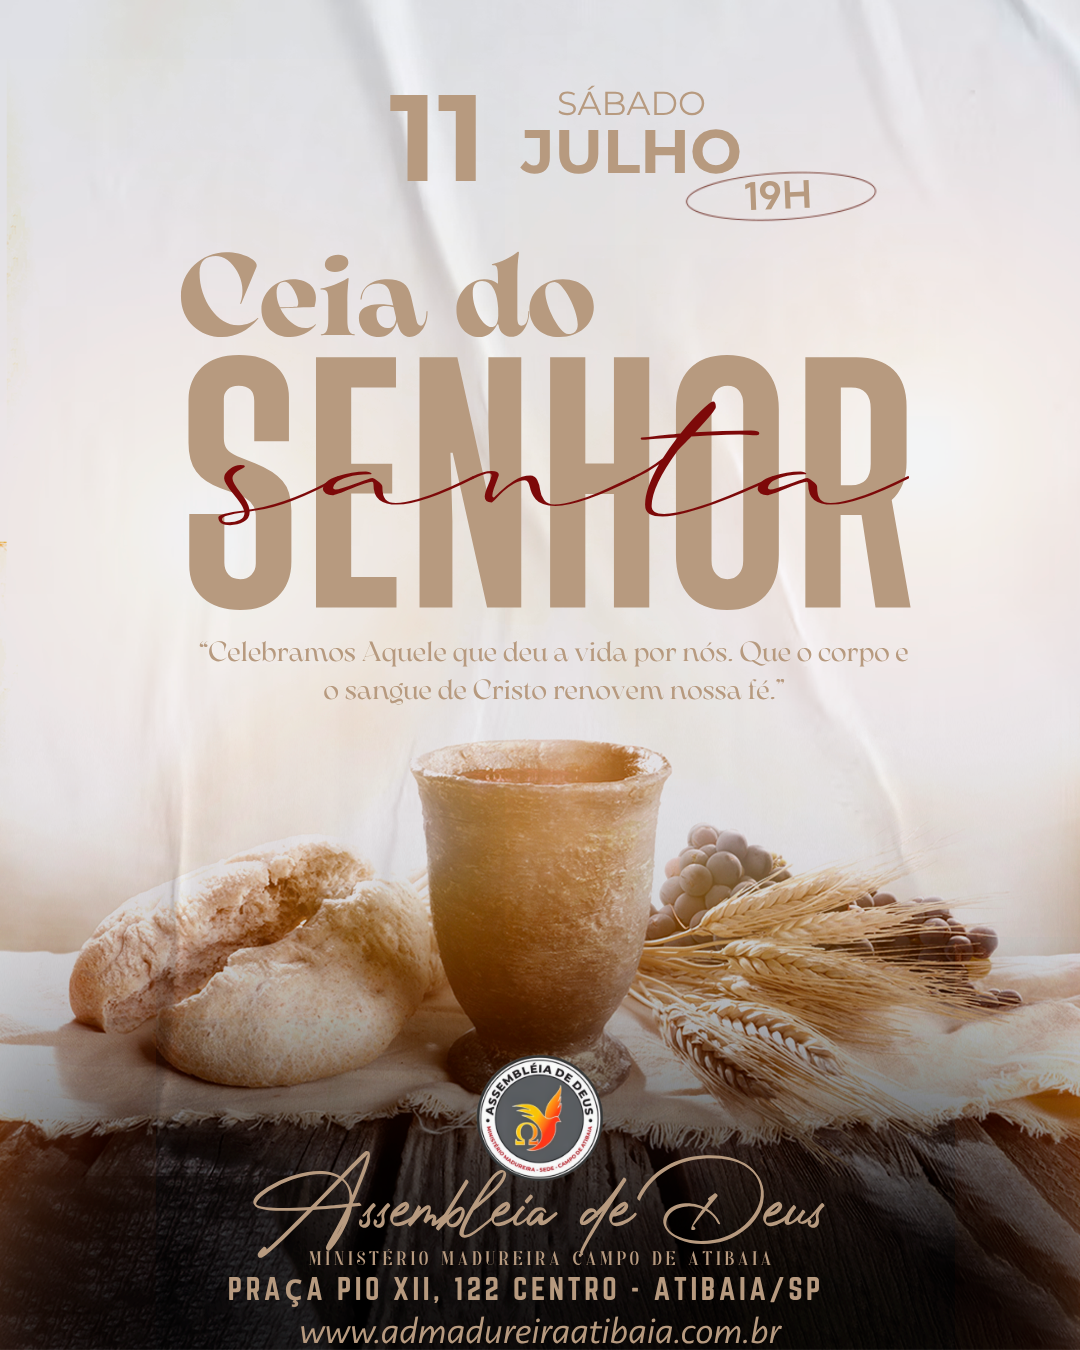
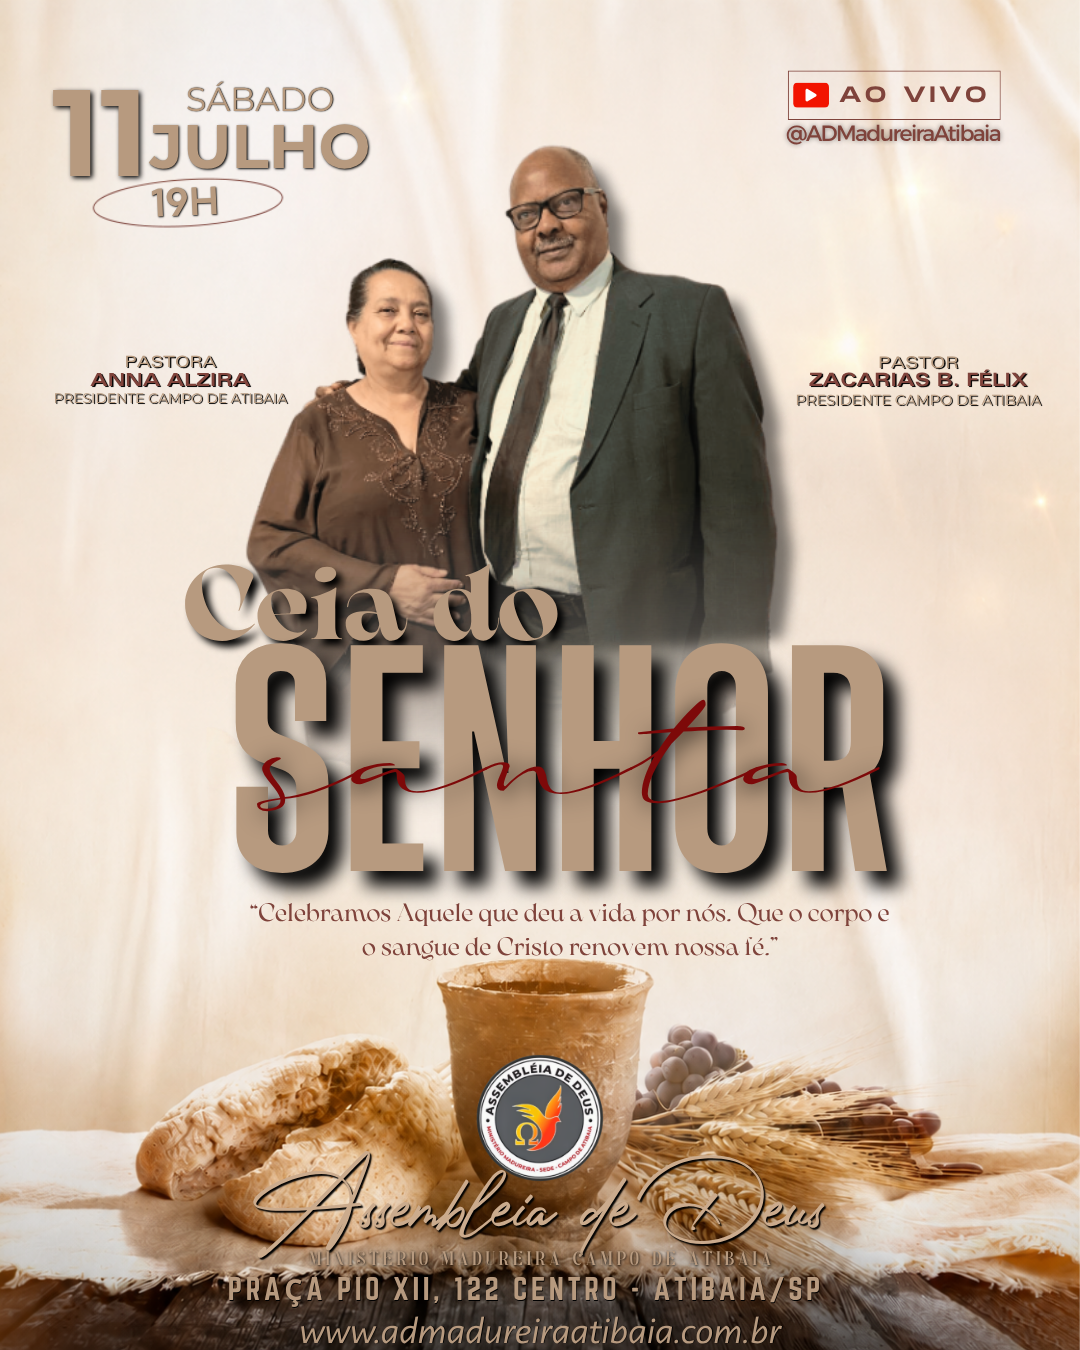
feat(eventos): ativa artes da semana e página da Vigília 29/08 (#102)
Atualiza as artes semanais de public/programacao/semanas/2026-07-06 e
cria a página dedicada da Vigília 29/08/2026 com preletor, cantores
convidados, data/horário/local, usando o banner oficial já entregue.

diff --git a/src/app/eventos/vigilia-29-08-2026/page.tsx b/src/app/eventos/vigilia-29-08-2026/page.tsx
@@ -1,0 +1,239 @@
+import type { Metadata } from "next";
+import Image from "next/image";
+import Link from "next/link";
+import VigiliaCountdown from "./VigiliaCountdown";
+import { VIGILIA_29_08_2026 as vigilia } from "@/data/vigilia-29-08-2026";
+import { SEDE_POSTAL_ADDRESS } from "@/data/site";
+import { buildPageMetadata, resolveSiteUrl, SITE_NAME } from "@/lib/site";
+
+export const metadata: Metadata = buildPageMetadata({
+  title: vigilia.tituloSeo,
+  description: vigilia.descricaoSeo,
+  path: vigilia.path,
+  image: vigilia.hero,
+  keywords: [...vigilia.keywords],
+});
+
+function InfoItem({ label, value }: { label: string; value: string }) {
+  return (
+    <div className="border-t border-white/10 pt-4">
+      <p className="text-[0.68rem] font-bold tracking-[0.22em] text-[#ffa726] uppercase">
+        {label}
+      </p>
+      <p className="mt-1 text-sm leading-relaxed text-white/82">{value}</p>
+    </div>
+  );
+}
+
+export default function Vigilia29082026Page() {
+  const canonicalUrl = resolveSiteUrl(vigilia.path);
+  const breadcrumbSchema = {
+    "@context": "https://schema.org",
+    "@type": "BreadcrumbList",
+    "@id": `${canonicalUrl}#breadcrumb`,
+    itemListElement: [
+      { "@type": "ListItem", position: 1, name: "Início", item: resolveSiteUrl("/") },
+      { "@type": "ListItem", position: 2, name: "Eventos", item: resolveSiteUrl("/eventos") },
+      { "@type": "ListItem", position: 3, name: vigilia.titulo, item: canonicalUrl },
+    ],
+  };
+  const eventSchema = {
+    "@context": "https://schema.org",
+    "@type": "Event",
+    "@id": `${canonicalUrl}#event`,
+    name: `${vigilia.titulo} — ${vigilia.data}`,
+    description: vigilia.descricaoSeo,
+    url: canonicalUrl,
+    image: [resolveSiteUrl(vigilia.hero)],
+    startDate: "2026-08-29T22:00:00-03:00",
+    inLanguage: "pt-BR",
+    eventStatus: "https://schema.org/EventScheduled",
+    eventAttendanceMode: "https://schema.org/OfflineEventAttendanceMode",
+    location: {
+      "@type": "Place",
+      name: vigilia.local,
+      address: SEDE_POSTAL_ADDRESS,
+    },
+    organizer: {
+      "@type": "Organization",
+      name: SITE_NAME,
+      url: resolveSiteUrl("/"),
+    },
+    performer: [
+      { "@type": "Person", name: vigilia.preletor },
+      ...vigilia.cantores.map((cantor) => ({
+        "@type": "Person",
+        name: cantor.nome,
+      })),
+    ],
+  };
+
+  return (
+    <main className="min-h-screen bg-[#f5f5f5]">
+      <script
+        type="application/ld+json"
+        dangerouslySetInnerHTML={{ __html: JSON.stringify(breadcrumbSchema) }}
+      />
+      <script
+        type="application/ld+json"
+        dangerouslySetInnerHTML={{ __html: JSON.stringify(eventSchema) }}
+      />
+
+      <div className="relative aspect-square w-full overflow-hidden bg-[#111] sm:aspect-[21/9] md:aspect-[21/7]">
+        <Image
+          src={vigilia.hero}
+          alt="Vigília 29 de agosto — AD Madureira Atibaia"
+          fill
+          priority
+          fetchPriority="high"
+          sizes="100vw"
+          className="object-cover object-top"
+        />
+        <div className="absolute inset-0 bg-gradient-to-t from-black/70 via-black/10 to-transparent" />
+      </div>
+
+      <section className="py-8 md:py-14">
+        <div className="ui-page-container ui-page-container--narrow">
+          <nav
+            aria-label="Breadcrumb"
+            className="mb-6 flex flex-wrap items-center gap-2 text-sm text-[#8a8a8a]"
+          >
+            <Link href="/" className="transition-colors hover:text-[#212121]">
+              Início
+            </Link>
+            <span>›</span>
+            <Link href="/eventos" className="transition-colors hover:text-[#212121]">
+              Eventos
+            </Link>
+            <span>›</span>
+            <span className="text-[#212121]">{vigilia.titulo}</span>
+          </nav>
+
+          <div className="mb-4">
+            <VigiliaCountdown targetIso="2026-08-29T22:00:00-03:00" />
+          </div>
+
+          <p className="mb-2 text-xs font-bold tracking-[0.28em] text-[#ffa726] uppercase">
+            {vigilia.diaSemana}, {vigilia.data} · {vigilia.horario}
+          </p>
+          <h1 className="font-acme text-3xl leading-tight tracking-wide text-[#212121] md:text-5xl">
+            {vigilia.titulo}
+          </h1>
+          <p className="mt-3 max-w-2xl text-lg font-semibold leading-relaxed text-[#8b5b18] md:text-2xl">
+            {vigilia.subtitulo}
+          </p>
+          <p className="mt-5 max-w-2xl text-base leading-relaxed text-[#555]">
+            {vigilia.descricaoTopo}
+          </p>
+
+          <div className="mt-8 flex flex-col gap-3 sm:flex-row">
+            <Link href="/contato" className="ui-btn-primary">
+              Como chegar
+            </Link>
+            <Link href="/programacao" className="ui-btn-secondary">
+              Ver programação completa
+            </Link>
+          </div>
+        </div>
+      </section>
+
+      <section className="bg-[#160e08] text-white">
+        <div className="ui-page-container py-10 md:py-14">
+          <div className="grid gap-4 sm:grid-cols-3">
+            <InfoItem label="Data" value={`${vigilia.diaSemana}, ${vigilia.data}`} />
+            <InfoItem label="Horário" value={vigilia.horario} />
+            <InfoItem label="Local" value={vigilia.endereco} />
+          </div>
+        </div>
+      </section>
+
+      <section className="ui-section">
+        <div className="ui-page-container">
+          <p className="ui-section-eyebrow ui-section-eyebrow--gold">
+            Sobre a Vigília
+          </p>
+          <h2 className="ui-section-title">Uma noite de adoração, clamor e Palavra</h2>
+          <div className="mt-6 max-w-3xl space-y-4 text-[#555] leading-relaxed">
+            {vigilia.sobre.map((paragrafo) => (
+              <p key={paragrafo}>{paragrafo}</p>
+            ))}
+          </div>
+        </div>
+      </section>
+
+      <section className="ui-section ui-section--dense bg-white">
+        <div className="ui-page-container">
+          <div className="mb-8 max-w-3xl">
+            <p className="ui-section-eyebrow">Participação especial</p>
+            <h2 className="ui-section-title">Preletor e cantores convidados</h2>
+          </div>
+
+          <div className="grid gap-5 sm:grid-cols-2 lg:grid-cols-3">
+            <article className="rounded-[1.5rem] border border-[#ffa726]/25 bg-[#fff8ee] p-6 shadow-sm lg:col-span-3">
+              <p className="text-xs font-bold tracking-[0.22em] text-[#ef5350] uppercase">
+                Preletor
+              </p>
+              <h3 className="mt-2 font-acme text-2xl tracking-wide text-[#212121]">
+                {vigilia.preletor}
+              </h3>
+              <p className="mt-2 text-sm leading-relaxed text-[#555]">
+                Ministração da Palavra nesta noite de adoração e clamor.
+              </p>
+            </article>
+
+            {vigilia.cantores.map((cantor) => (
+              <article
+                key={cantor.nome}
+                className="rounded-[1.5rem] border border-black/5 bg-[#f9f9f9] p-6 shadow-sm"
+              >
+                <p className="text-xs font-bold tracking-[0.22em] text-[#ffa726] uppercase">
+                  {cantor.papel}
+                </p>
+                <h3 className="mt-2 font-acme text-xl tracking-wide text-[#212121]">
+                  {cantor.nome}
+                </h3>
+                <p className="mt-2 text-sm leading-relaxed text-[#555]">
+                  Participação especial no louvor e adoração da Vigília.
+                </p>
+              </article>
+            ))}
+          </div>
+
+          <div className="mt-8 rounded-[1.5rem] border border-black/5 bg-[#f9f9f9] p-6">
+            <p className="text-xs font-bold tracking-[0.22em] text-[#ef5350] uppercase">
+              Anfitriões
+            </p>
+            <p className="mt-2 text-sm leading-relaxed text-[#555]">
+              {vigilia.anfitrioes.join(" e ")}
+            </p>
+          </div>
+        </div>
+      </section>
+
+      <section className="bg-[#212121] py-10 text-white md:py-14">
+        <div className="ui-page-container flex flex-col gap-5 md:flex-row md:items-center md:justify-between">
+          <div className="max-w-2xl">
+            <p className="text-xs font-bold tracking-[0.24em] text-[#ffa726] uppercase">
+              Vigília — {vigilia.data}
+            </p>
+            <h2 className="mt-3 font-acme text-2xl tracking-wide md:text-4xl">
+              Prepare sua família e venha buscar a Deus conosco
+            </h2>
+            <p className="mt-3 text-sm leading-relaxed text-white/72 md:text-base">
+              {vigilia.diaSemana}, {vigilia.data}, às {vigilia.horario}, na{" "}
+              {vigilia.endereco}.
+            </p>
+          </div>
+          <div className="flex flex-col gap-3 sm:flex-row">
+            <Link href="/eventos" className="ui-btn-primary">
+              Ver todos os eventos
+            </Link>
+            <Link href="/contato" className="ui-btn-ghost-dark">
+              Falar com a igreja
+            </Link>
+          </div>
+        </div>
+      </section>
+    </main>
+  );
+}

diff --git a/src/data/vigilia-29-08-2026.ts b/src/data/vigilia-29-08-2026.ts
@@ -1,0 +1,45 @@
+import { SEDE_ADDRESS_INLINE, SEDE_PLACE_NAME } from "@/data/site";
+
+export const VIGILIA_29_08_2026 = {
+  slug: "vigilia-29-08-2026",
+  path: "/eventos/vigilia-29-08-2026",
+  titulo: "Vigília",
+  tituloSeo: "Vigília 29 de Agosto 2026 | AD Madureira Atibaia",
+  subtitulo: "Uma noite de adoração, clamor e Palavra",
+  data: "29 de agosto de 2026",
+  diaSemana: "Sábado",
+  horario: "22h",
+  local: SEDE_PLACE_NAME,
+  endereco: SEDE_ADDRESS_INLINE,
+  preletor: "Pr. Wanderley Abraão",
+  anfitrioes: ["Pr. Zacarias B. Félix", "Pra. Anna Alzira"],
+  cantores: [
+    { nome: "Noemi Nonato", papel: "Cantora" },
+    { nome: "Nando Menezes", papel: "Cantor" },
+    { nome: "Gildo Borges", papel: "Cantor" },
+    { nome: "Cíntia Pérez", papel: "Cantora" },
+  ],
+  imagem: "/banners/banner-vigilia.png",
+  banner: "/banners/banner-vigilia.png",
+  hero: "/banners/banner-vigilia.png",
+  descricaoSeo:
+    "Participe da Vigília na AD Madureira Atibaia, sábado, 29 de agosto de 2026, às 22h. Uma noite de adoração, clamor e Palavra com o Pr. Wanderley Abraão e participação de Noemi Nonato, Nando Menezes, Gildo Borges e Cíntia Pérez.",
+  descricaoTopo:
+    "A Assembleia de Deus — Ministério Madureira Campo de Atibaia convida você e sua família para uma noite especial de Vigília.",
+  sobre: [
+    "A Vigília será uma noite separada para buscarmos a presença de Deus em oração, adoração e ministração da Palavra. Um tempo de renovo espiritual e comunhão para toda a igreja.",
+    "A ministração da Palavra ficará com o Pr. Wanderley Abraão, e o louvor contará com a participação especial dos cantores Noemi Nonato, Nando Menezes, Gildo Borges e Cíntia Pérez.",
+  ],
+  keywords: [
+    "Vigília em Atibaia",
+    "AD Madureira Atibaia",
+    "Assembleia de Deus Atibaia",
+    "vigília evangélica",
+    "noite de oração",
+    "Pr. Wanderley Abraão",
+    "Noemi Nonato",
+    "Nando Menezes",
+    "Gildo Borges",
+    "Cíntia Pérez",
+  ],
+} as const;

diff --git a/src/data/eventos-especiais.ts b/src/data/eventos-especiais.ts
@@ -868,9 +868,23 @@ export function getEventosEspeciais2026(local: string): MesAgendaBase[] {
           data: "29/08",
           titulo: "Vigília",
           tipo: "evento-especial",
+          horario: "22h00",
           descricao:
-            "Noite especial de oração, consagração e busca pela presença de Deus.",
+            "Uma noite de adoração, clamor e Palavra, com ministração do Pr. Wanderley Abraão e participação especial dos cantores Noemi Nonato, Nando Menezes, Gildo Borges e Cíntia Pérez.",
+          convite:
+            "Separe a noite de sábado para buscar a presença de Deus conosco. Traga sua família e convide alguém para essa vigília.",
+          baseBiblica: criarBaseBiblica("Mateus 26:41"),
+          recursos: [
+            {
+              label: "Ver página completa da Vigília",
+              href: "/eventos/vigilia-29-08-2026",
+              descricao:
+                "Participantes, preletor, data, horário e local da Vigília 29/08.",
+            },
+          ],
           destaque: true,
+          imagem: "/banners/banner-vigilia.png",
+          banner: "/banners/banner-vigilia.png",
         }),
         criarEvento(local, {
           slug: "curso-de-teologia-31-08-2026",

diff --git a/src/app/eventos/vigilia-29-08-2026/VigiliaCountdown.tsx b/src/app/eventos/vigilia-29-08-2026/VigiliaCountdown.tsx
@@ -1,0 +1,40 @@
+"use client";
+
+import { useEffect, useState } from "react";
+
+type Estado =
+  | { tipo: "carregando" }
+  | { tipo: "futuro"; dias: number }
+  | { tipo: "encerrado" };
+
+function calcularEstado(targetIso: string): Estado {
+  const diff = new Date(targetIso).getTime() - Date.now();
+
+  if (diff <= 0) {
+    return { tipo: "encerrado" };
+  }
+
+  return { tipo: "futuro", dias: Math.ceil(diff / (1000 * 60 * 60 * 24)) };
+}
+
+type Props = {
+  targetIso: string;
+};
+
+export default function VigiliaCountdown({ targetIso }: Props) {
+  const [estado, setEstado] = useState<Estado>({ tipo: "carregando" });
+
+  useEffect(() => {
+    setEstado(calcularEstado(targetIso));
+  }, [targetIso]);
+
+  if (estado.tipo === "carregando" || estado.tipo === "encerrado") return null;
+
+  const { dias } = estado;
+
+  return (
+    <span className="inline-flex items-center gap-2 rounded-full bg-[#ffa726]/15 px-4 py-2 text-xs font-bold tracking-widest uppercase text-[#ffa726]">
+      Faltam {dias} {dias === 1 ? "dia" : "dias"} para a Vigília
+    </span>
+  );
+}

diff --git a/src/data/banner-semanal-manifest.ts b/src/data/banner-semanal-manifest.ts
@@ -217,6 +217,19 @@ export const BANNERS_SEMANAIS_DISPONIVEIS: Record<string, readonly string[]> = {
     "oracao-matinal.png"
   ],
   "2026-07-06": [
-    "santa-ceia.png"
+    "congresso-rios-de-uncao.png",
+    "culto-de-domingo.png",
+    "culto-de-ensino.png",
+    "culto-de-libertacao.png",
+    "culto-de-quinta.png",
+    "ebd.png",
+    "ensaio-irmas.png",
+    "ensaio-jovens.png",
+    "jejum-e-oração.png",
+    "oracao-matinal-domingo.png",
+    "oracao-matinal.png",
+    "reuniao-ministerial.png",
+    "santa-ceia.png",
+    "vigilia.png"
   ]
 };
